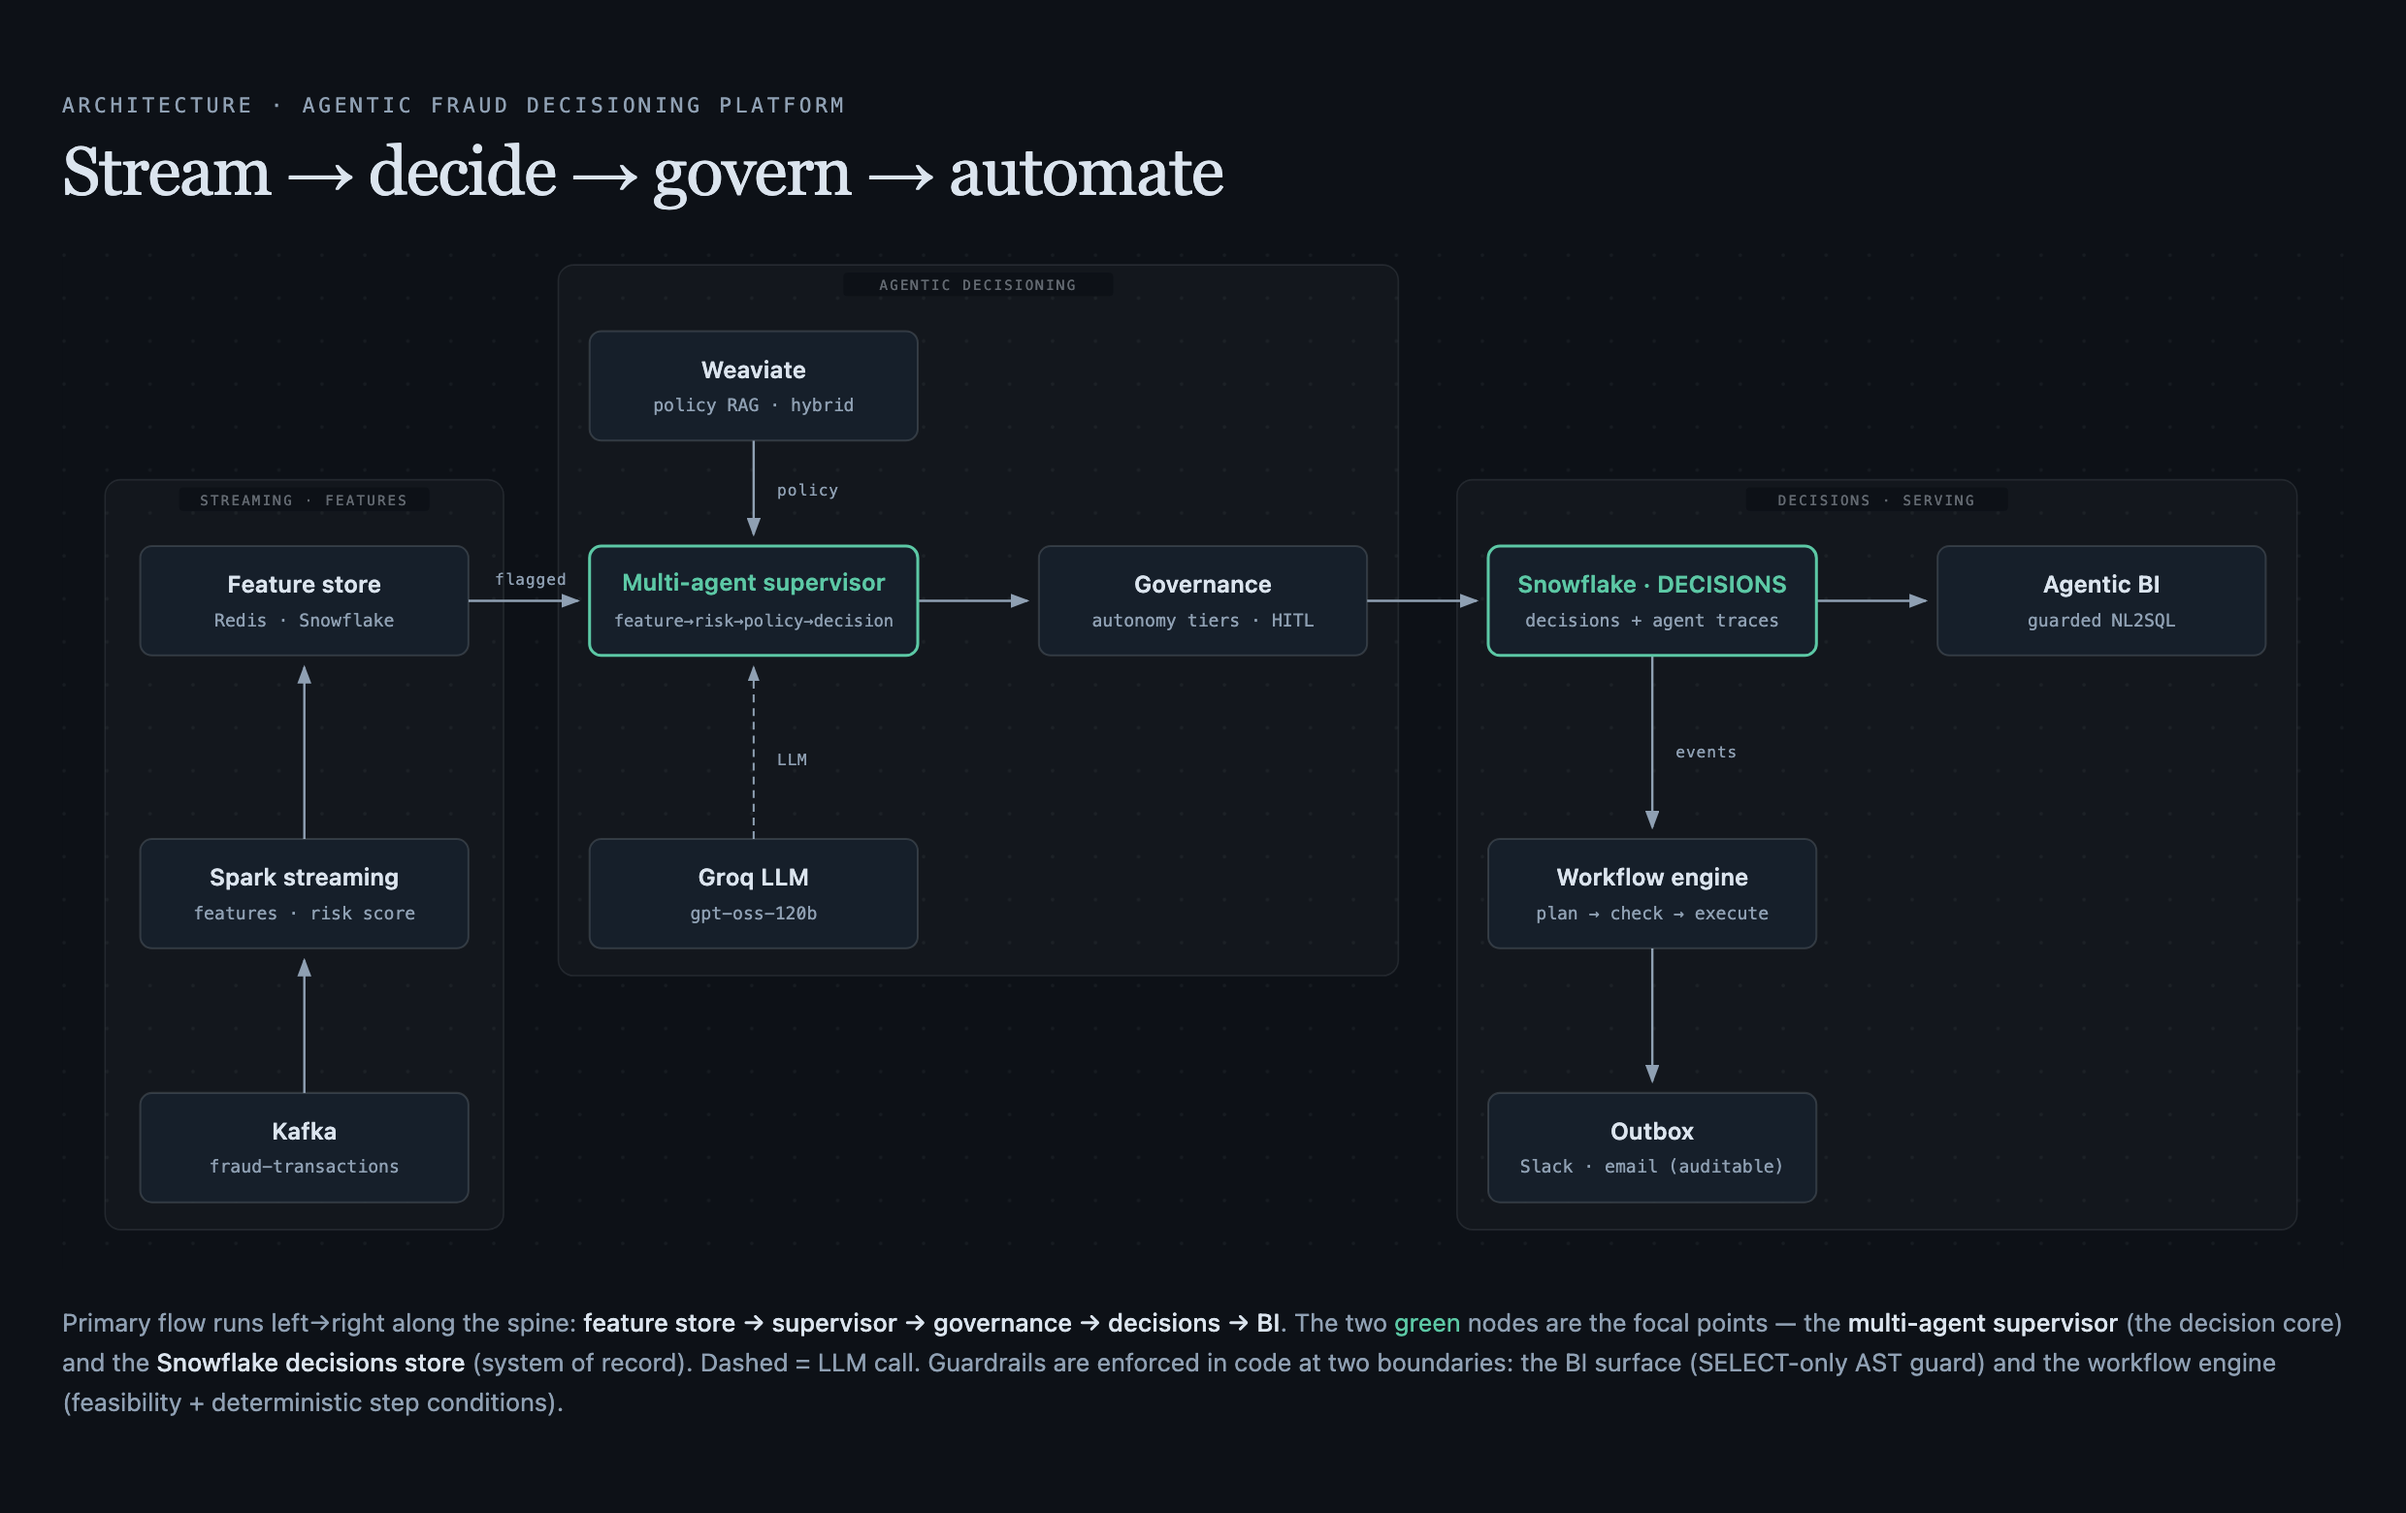
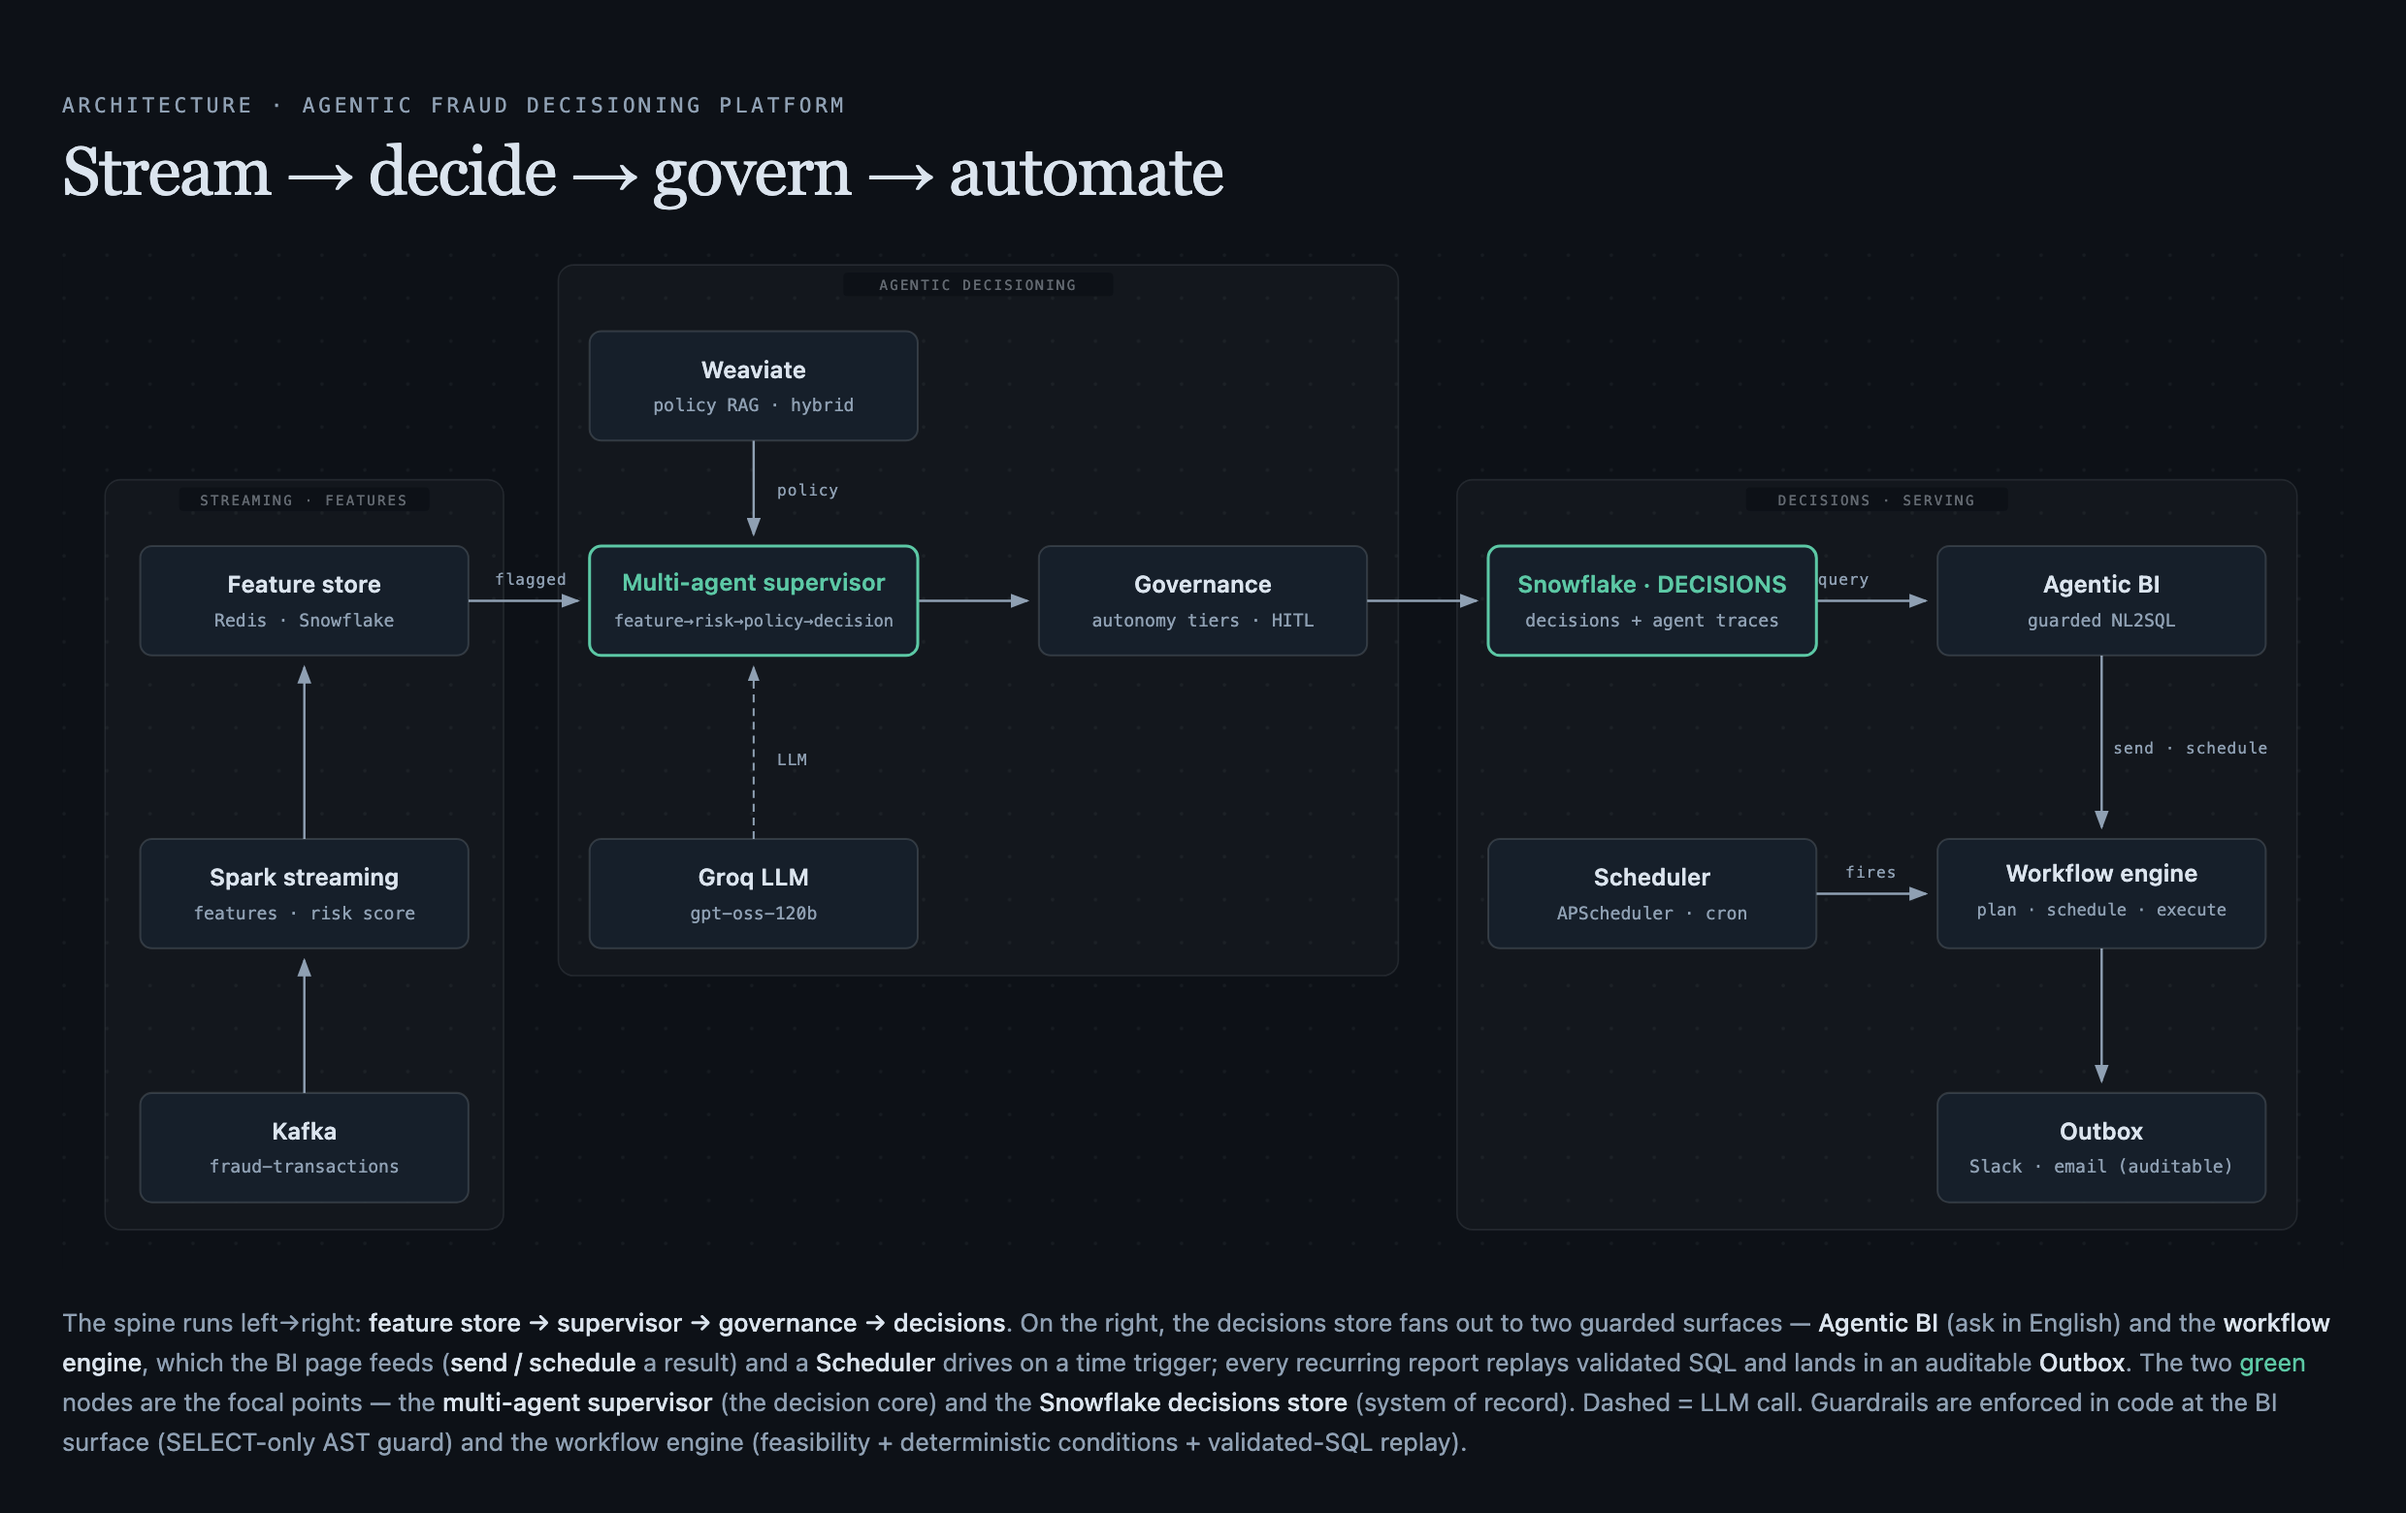
docs: update architecture diagram to show BI → workflow engine + scheduler
Reworks the serving zone: the decisions store fans out to Agentic BI and the
workflow engine, which the BI page feeds (send / schedule a result) and a
Scheduler drives on a time trigger, delivering to the auditable outbox. All
connectors stay orthogonal; two green focal nodes preserved. Re-renders the PNG
and updates the README caption + the mode A/B/C walkthrough.

diff --git a/docs/architecture-diagram.html b/docs/architecture-diagram.html
@@ -53,8 +53,9 @@
     <desc id="arch-desc">Left to right: a Kafka/Spark streaming pipeline writes a Redis/Snowflake
       feature store; a multi-agent supervisor grounded by Weaviate policy RAG and a Groq LLM makes
       ALLOW/BLOCK/ESCALATE decisions; governance assigns autonomy tiers; decisions and traces land in
-      Snowflake and feed a guarded NL2SQL BI surface and a natural-language workflow engine that emits
-      to an auditable outbox.</desc>
+      Snowflake and feed a guarded NL2SQL BI surface. The BI surface can send or schedule a result
+      through a natural-language workflow engine, which a scheduler also fires on a time trigger,
+      delivering formatted reports to an auditable Slack/email outbox.</desc>
 
     <defs>
       <pattern id="dots" width="22" height="22" patternUnits="userSpaceOnUse">
@@ -102,15 +103,21 @@
     <line x1="354" y1="96" x2="354" y2="144" stroke="#8fa0b3" stroke-width="1.2" marker-end="url(#arrow)"/>
     <!-- LLM up into supervisor (dashed = model call) -->
     <line x1="354" y1="300" x2="354" y2="212" stroke="#8fa0b3" stroke-width="1" stroke-dasharray="4,3" marker-end="url(#arrow)"/>
-    <!-- decisions -> serving (down) -->
-    <line x1="814" y1="206" x2="814" y2="294" stroke="#8fa0b3" stroke-width="1.2" marker-end="url(#arrow)"/>
-    <line x1="814" y1="356" x2="814" y2="424" stroke="#8fa0b3" stroke-width="1.2" marker-end="url(#arrow)"/>
+    <!-- serving: BI feeds the workflow engine; the scheduler fires it; it emits to the outbox -->
+    <!-- Agentic BI -> Workflow engine (send / schedule a result) -->
+    <line x1="1044" y1="206" x2="1044" y2="294" stroke="#8fa0b3" stroke-width="1.2" marker-end="url(#arrow)"/>
+    <!-- Scheduler -> Workflow engine (time trigger) -->
+    <line x1="898" y1="328" x2="954" y2="328" stroke="#8fa0b3" stroke-width="1.2" marker-end="url(#arrow)"/>
+    <!-- Workflow engine -> Outbox (deliver) -->
+    <line x1="1044" y1="356" x2="1044" y2="424" stroke="#8fa0b3" stroke-width="1.2" marker-end="url(#arrow)"/>
 
     <!-- arrow labels -->
     <text x="366" y="124" font-family="'Geist Mono',monospace" font-size="8" letter-spacing="0.06em" fill="#8fa0b3">policy</text>
     <text x="366" y="262" font-family="'Geist Mono',monospace" font-size="8" letter-spacing="0.06em" fill="#8fa0b3">LLM</text>
     <text x="240" y="170" text-anchor="middle" font-family="'Geist Mono',monospace" font-size="8" letter-spacing="0.06em" fill="#8fa0b3">flagged</text>
-    <text x="826" y="258" font-family="'Geist Mono',monospace" font-size="8" letter-spacing="0.06em" fill="#8fa0b3">events</text>
+    <text x="912" y="170" text-anchor="middle" font-family="'Geist Mono',monospace" font-size="8" letter-spacing="0.06em" fill="#8fa0b3">query</text>
+    <text x="1050" y="256" font-family="'Geist Mono',monospace" font-size="8" letter-spacing="0.06em" fill="#8fa0b3">send · schedule</text>
+    <text x="926" y="320" text-anchor="middle" font-family="'Geist Mono',monospace" font-size="8" letter-spacing="0.06em" fill="#8fa0b3">fires</text>
 
     <!-- ============ NODES ============ -->
     <!-- helper geometry: w=168 h=56, name y=+24, sub y=+41 -->
@@ -167,24 +174,35 @@
       <text x="1044" y="174" text-anchor="middle" font-size="12" font-weight="600" fill="#dbe4ee">Agentic BI</text>
       <text x="1044" y="191" text-anchor="middle" font-family="'Geist Mono',monospace" font-size="9" fill="#8fa0b3">guarded NL2SQL</text>
     </g>
+    <!-- Scheduler — decides WHEN a stored workflow runs (time trigger) -->
     <g>
       <rect x="730" y="300" width="168" height="56" rx="6" fill="#161f2a" stroke="rgba(219,228,238,0.16)"/>
-      <text x="814" y="324" text-anchor="middle" font-size="12" font-weight="600" fill="#dbe4ee">Workflow engine</text>
-      <text x="814" y="341" text-anchor="middle" font-family="'Geist Mono',monospace" font-size="9" fill="#8fa0b3">plan → check → execute</text>
+      <text x="814" y="324" text-anchor="middle" font-size="12" font-weight="600" fill="#dbe4ee">Scheduler</text>
+      <text x="814" y="341" text-anchor="middle" font-family="'Geist Mono',monospace" font-size="9" fill="#8fa0b3">APScheduler · cron</text>
+    </g>
+    <!-- Workflow engine — plan-and-execute automation -->
+    <g>
+      <rect x="960" y="300" width="168" height="56" rx="6" fill="#161f2a" stroke="rgba(219,228,238,0.16)"/>
+      <text x="1044" y="322" text-anchor="middle" font-size="12" font-weight="600" fill="#dbe4ee">Workflow engine</text>
+      <text x="1044" y="339" text-anchor="middle" font-family="'Geist Mono',monospace" font-size="8.5" fill="#8fa0b3">plan · schedule · execute</text>
     </g>
     <g>
-      <rect x="730" y="430" width="168" height="56" rx="6" fill="#161f2a" stroke="rgba(219,228,238,0.16)"/>
-      <text x="814" y="454" text-anchor="middle" font-size="12" font-weight="600" fill="#dbe4ee">Outbox</text>
-      <text x="814" y="471" text-anchor="middle" font-family="'Geist Mono',monospace" font-size="9" fill="#8fa0b3">Slack · email (auditable)</text>
+      <rect x="960" y="430" width="168" height="56" rx="6" fill="#161f2a" stroke="rgba(219,228,238,0.16)"/>
+      <text x="1044" y="454" text-anchor="middle" font-size="12" font-weight="600" fill="#dbe4ee">Outbox</text>
+      <text x="1044" y="471" text-anchor="middle" font-family="'Geist Mono',monospace" font-size="9" fill="#8fa0b3">Slack · email (auditable)</text>
     </g>
   </svg>
 
   <p class="cap">
-    Primary flow runs left→right along the spine: <b>feature store → supervisor → governance →
-    decisions → BI</b>. The two <span class="swatch">green</span> nodes are the focal points — the
-    <b>multi-agent supervisor</b> (the decision core) and the <b>Snowflake decisions store</b> (system
-    of record). Dashed = LLM call. Guardrails are enforced in code at two boundaries: the BI surface
-    (SELECT-only AST guard) and the workflow engine (feasibility + deterministic step conditions).
+    The spine runs left→right: <b>feature store → supervisor → governance → decisions</b>. On the
+    right, the decisions store fans out to two guarded surfaces — <b>Agentic BI</b> (ask in English)
+    and the <b>workflow engine</b>, which the BI page feeds (<b>send / schedule</b> a result) and a
+    <b>Scheduler</b> drives on a time trigger; every recurring report replays validated SQL and lands
+    in an auditable <b>Outbox</b>. The two <span class="swatch">green</span> nodes are the focal points
+    — the <b>multi-agent supervisor</b> (the decision core) and the <b>Snowflake decisions store</b>
+    (system of record). Dashed = LLM call. Guardrails are enforced in code at the BI surface
+    (SELECT-only AST guard) and the workflow engine (feasibility + deterministic conditions +
+    validated-SQL replay).
   </p>
 </div>
 </body>

diff --git a/README.md b/README.md
@@ -9,9 +9,11 @@ workflow engine** over the decision log.
 ![Architecture — stream, decide, govern, automate](docs/architecture.png)
 
 *Interactive version: [`docs/architecture-diagram.html`](docs/architecture-diagram.html)
-· the two green nodes are the focal points (the decision core and the system of
-record); dashed = LLM call; guardrails are enforced in code at the BI surface and the
-workflow engine.*
+· on the right, the decisions store fans out to Agentic BI and the workflow engine —
+which the BI page **feeds** (send / schedule a result) and a **Scheduler** drives on a
+time trigger, delivering to an auditable Outbox. The two green nodes are the focal
+points (the decision core and the system of record); dashed = LLM call; guardrails are
+enforced in code at the BI surface and the workflow engine.*
 
 ---
 
@@ -181,6 +183,26 @@ location.**
 
    ```bash
    python -m fraud_platform.workflow_engine.run_demo --mock   # end-to-end, no infra
+   ```
+
+6. **Ask → deliver → schedule (BI ↔ workflow engine).** The Agentic BI page and the
+   workflow engine are one connected system. Ask a question and get the answer through
+   the guarded NL2SQL pipeline (mode A, no workflow). Then, from the same result,
+   optionally **send it to Slack / email now** (mode B), or **schedule it** — *"every
+   day at 10 PM, send #fraud-ops a fraud performance report"* (mode C). Three
+   separations of responsibility keep the LLM useful without letting it become the
+   authority: NL2SQL answers, the planner turns intent into a plan, the scheduler
+   decides *when*, the executor runs registered tools, connectors deliver. The LLM may
+   **interpret** "10 PM" into a structured schedule, but code validates it (timezone
+   required), converts it to APScheduler, and a recurring report **replays validated
+   SQL** — it is never regenerated per run. Rows never go to Slack raw: a `format_report`
+   step renders a compact Slack summary and a detailed email body. The scheduled demo
+   (offline) shows the whole path — plan, validated SQL, schedule interpretation,
+   feasibility PASS, a simulated trigger, the formatted report, the outbox artifact, and
+   idempotent re-fires — plus a destructive scheduled request that is **REJECTED**:
+
+   ```bash
+   python -m fraud_platform.workflow_engine.run_demo --scheduled --mock
    ```
 
 ---
